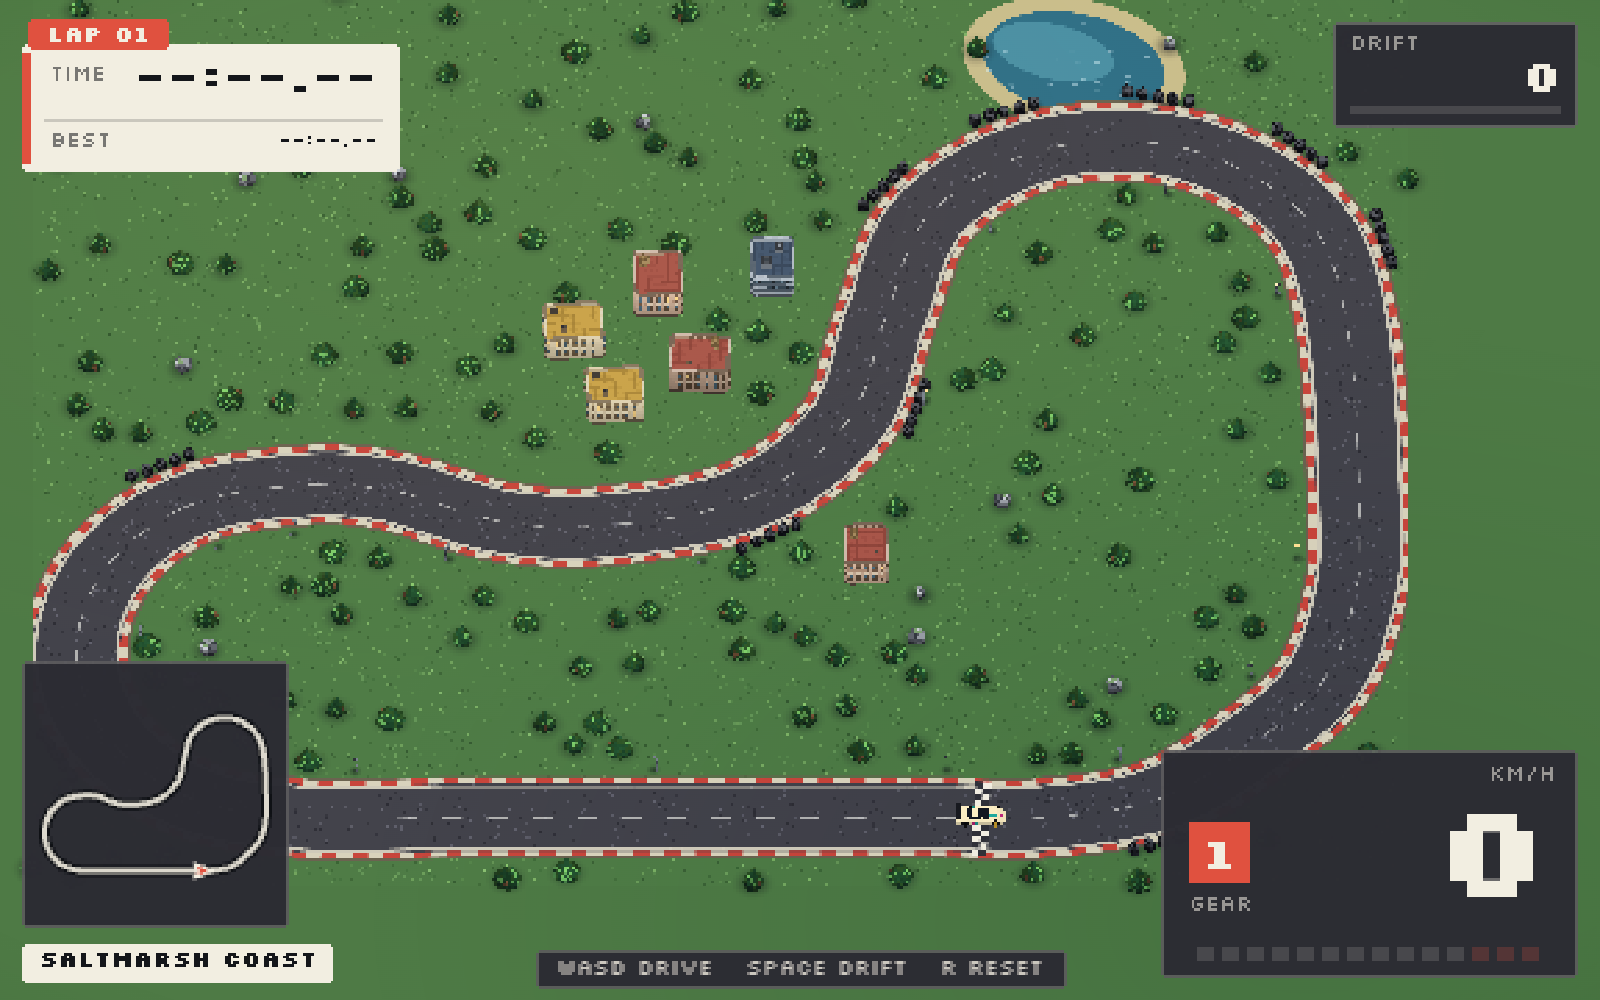
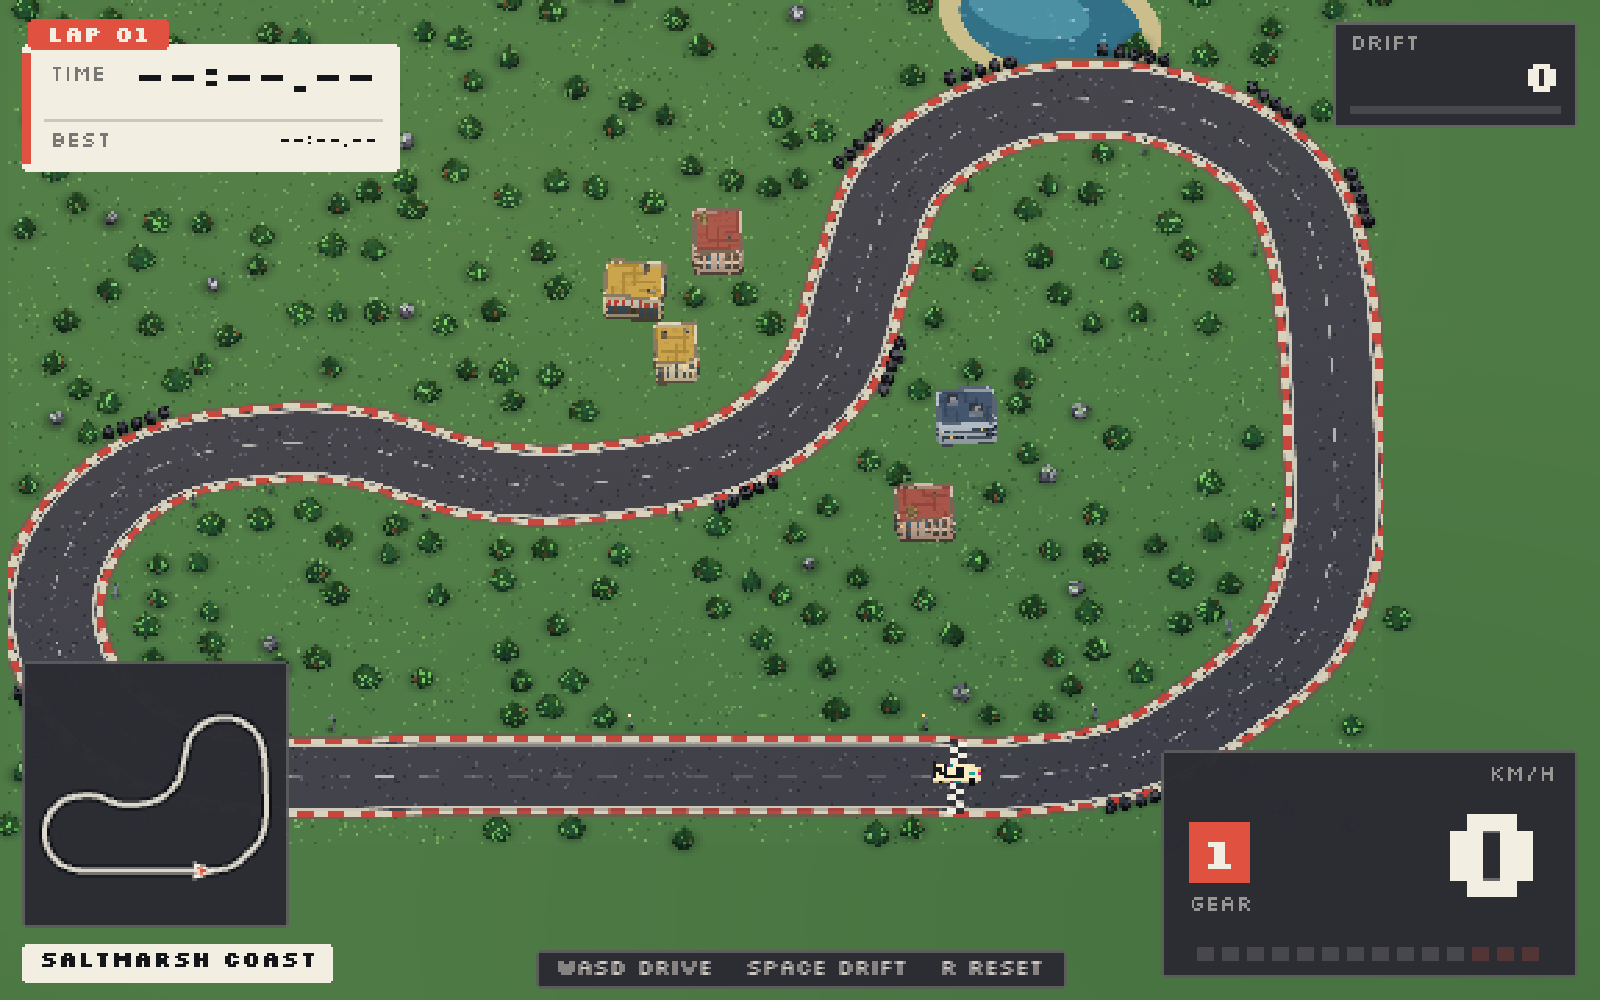
Map slice 1: town shifted right, infield filled (trees 280, rocks 58), plan.md

diff --git a/src/world.ts b/src/world.ts
@@ -73,7 +73,7 @@ export const MAPS: MapDef[] = [
     },
     lake: { x: 34, z: -37, rx: 11, rz: 8 },
     trees: 'mixed', density: 1,
-    props: { trees: 190, rocks: 34, buildings: 15, lampStride: 58, rockScale: 1 },
+    props: { trees: 280, rocks: 58, buildings: 15, lampStride: 58, rockScale: 1 },
   },
   {
     // NASCAR-style stadium: two long straights, two banked U-turns, no sweepers
@@ -455,9 +455,9 @@ export async function buildWorld(scene: THREE.Scene, mapId?: string): Promise<Wo
 
   // town in the infield
   const TOWN: [number, number][] = [
-    [-6, -8], [5, -10], [12, -2], [-2, 2], [9, 7], [-10, 6],
-    [-4, 14], [6, 16], [-14, -2], [14, 26], [-18, 12], [2, 22],
-    [-22, -4], [18, 14], [-8, 26],
+    [2, -8], [13, -10], [20, -2], [6, 2], [17, 7], [-2, 6],
+    [4, 14], [14, 16], [-6, -2], [22, 26], [-10, 12], [10, 22],
+    [-14, -4], [26, 14], [0, 26],
   ];
   const buildings: Placement[][] = [[], [], []];
   const town = map.town ?? TOWN;

diff --git a/docs/plan.md b/docs/plan.md
@@ -1,0 +1,36 @@
+# Sprite Drift — work plan
+
+Cadence per block: design note → implement in slices (one commit each) → verify three
+states (parked / mid-corner / at speed) → failure cases → tests → docs.
+
+## Now: map detail pass (from the annotated overview)
+
+**What changes**
+1. Shift the town right (+8 x) so it sits in the open half of the infield.
+2. Fill the empty infield and the right-hand void: more trees, scattered rocks, a few
+   tyre stacks and lamp posts, so the centre reads as a place, not a lawn.
+3. Add roadside furniture along the main straight: marker boards, a start gantry later.
+
+**Why**
+The annotated overview shows a big empty lawn inside the loop and a bare strip on the
+right. Props are the cheapest way to make the circuit feel like a venue.
+
+**What could break**
+- Prop placement is rejection-tested against the road; raising counts can starve the
+  sampler if the `free()` radius is too generous. Cap iterations and assert a minimum.
+- Colliders grow with props: too many near the racing line makes the track feel narrower.
+  Keep a 2.4-unit clearance from the kerb.
+- The town shift must stay clear of the hairpin and the lake.
+
+## Next: Block 3 — audio
+1. Engine synth (RPM from speed + gear, load from throttle) — one commit.
+2. Tyre squeal from slip, kerb rumble when on a kerb — one commit.
+3. Impact thud + gravel crunch — one commit.
+4. Music loop, ducked under the engine — one commit.
+
+Failure cases to write down first: 0 speed, max speed, reversing, off-road, wall hit,
+tab hidden (must suspend), mute toggle, audio context suspended until first gesture.
+
+## Later: Block 5 — multiplayer rooms
+Reuse the nest API host; WebSocket rooms, 20 Hz state, interpolation, join/leave,
+server-side lap validation. Design note before any code.
